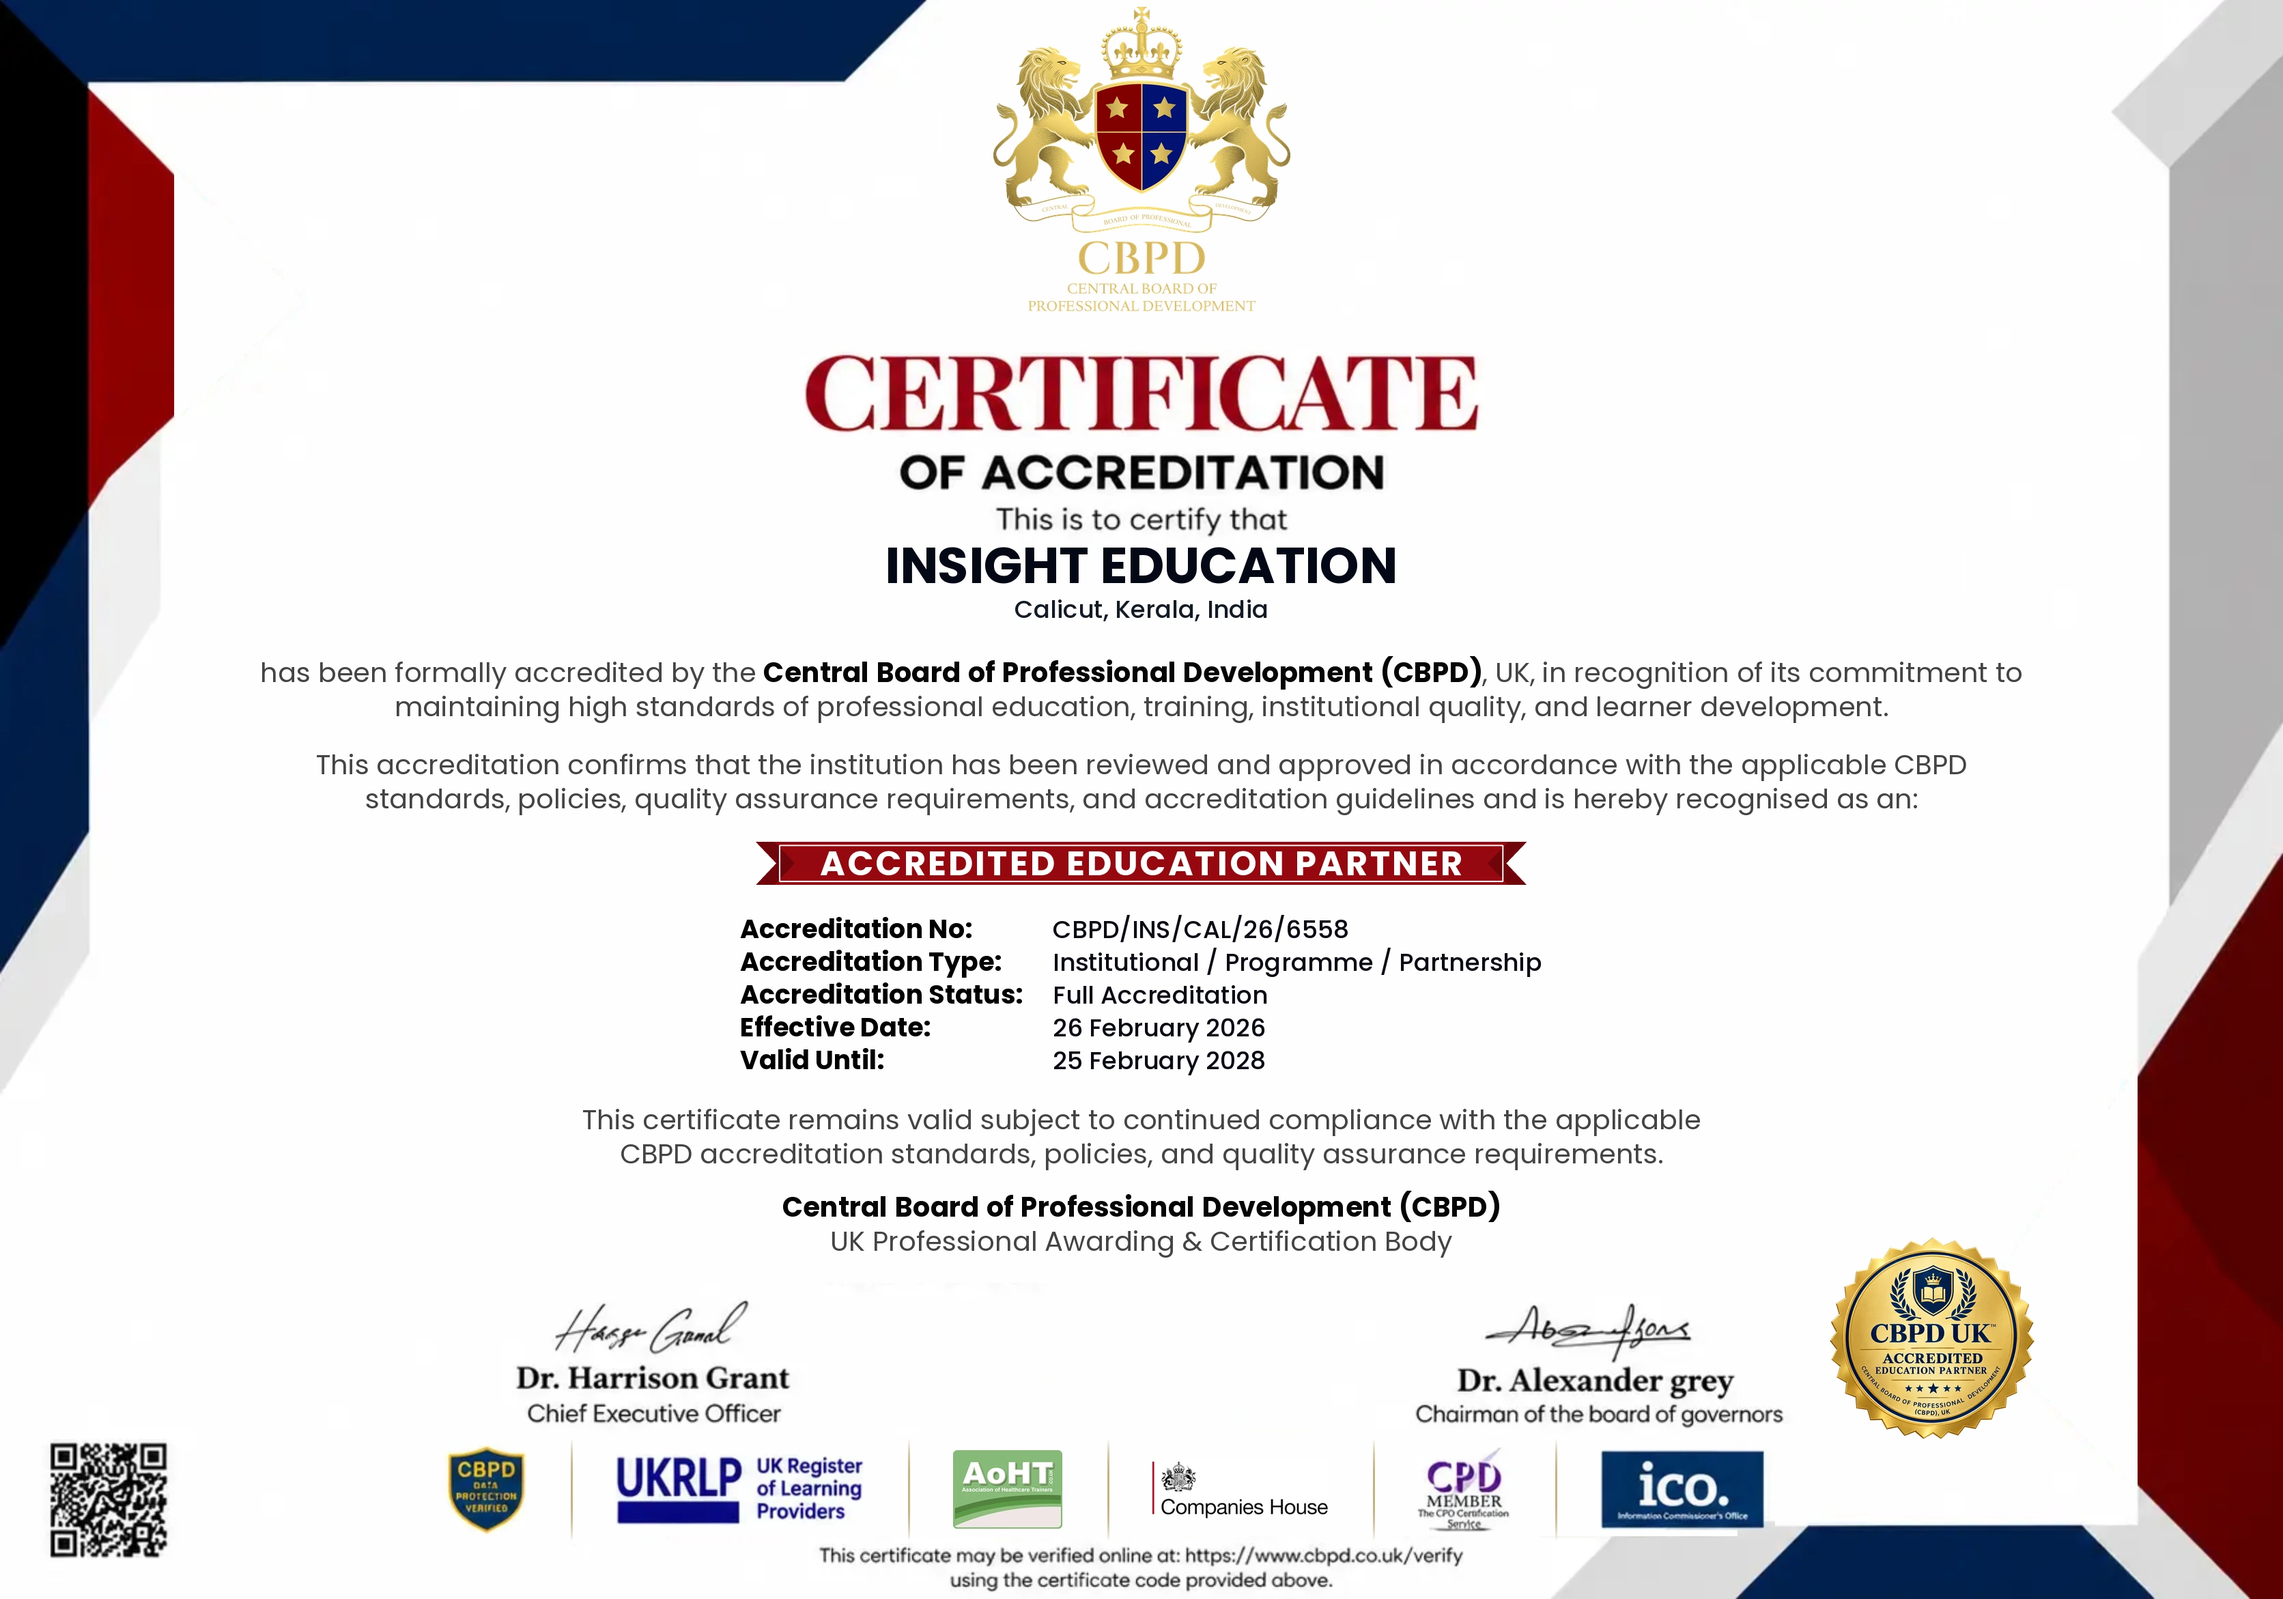
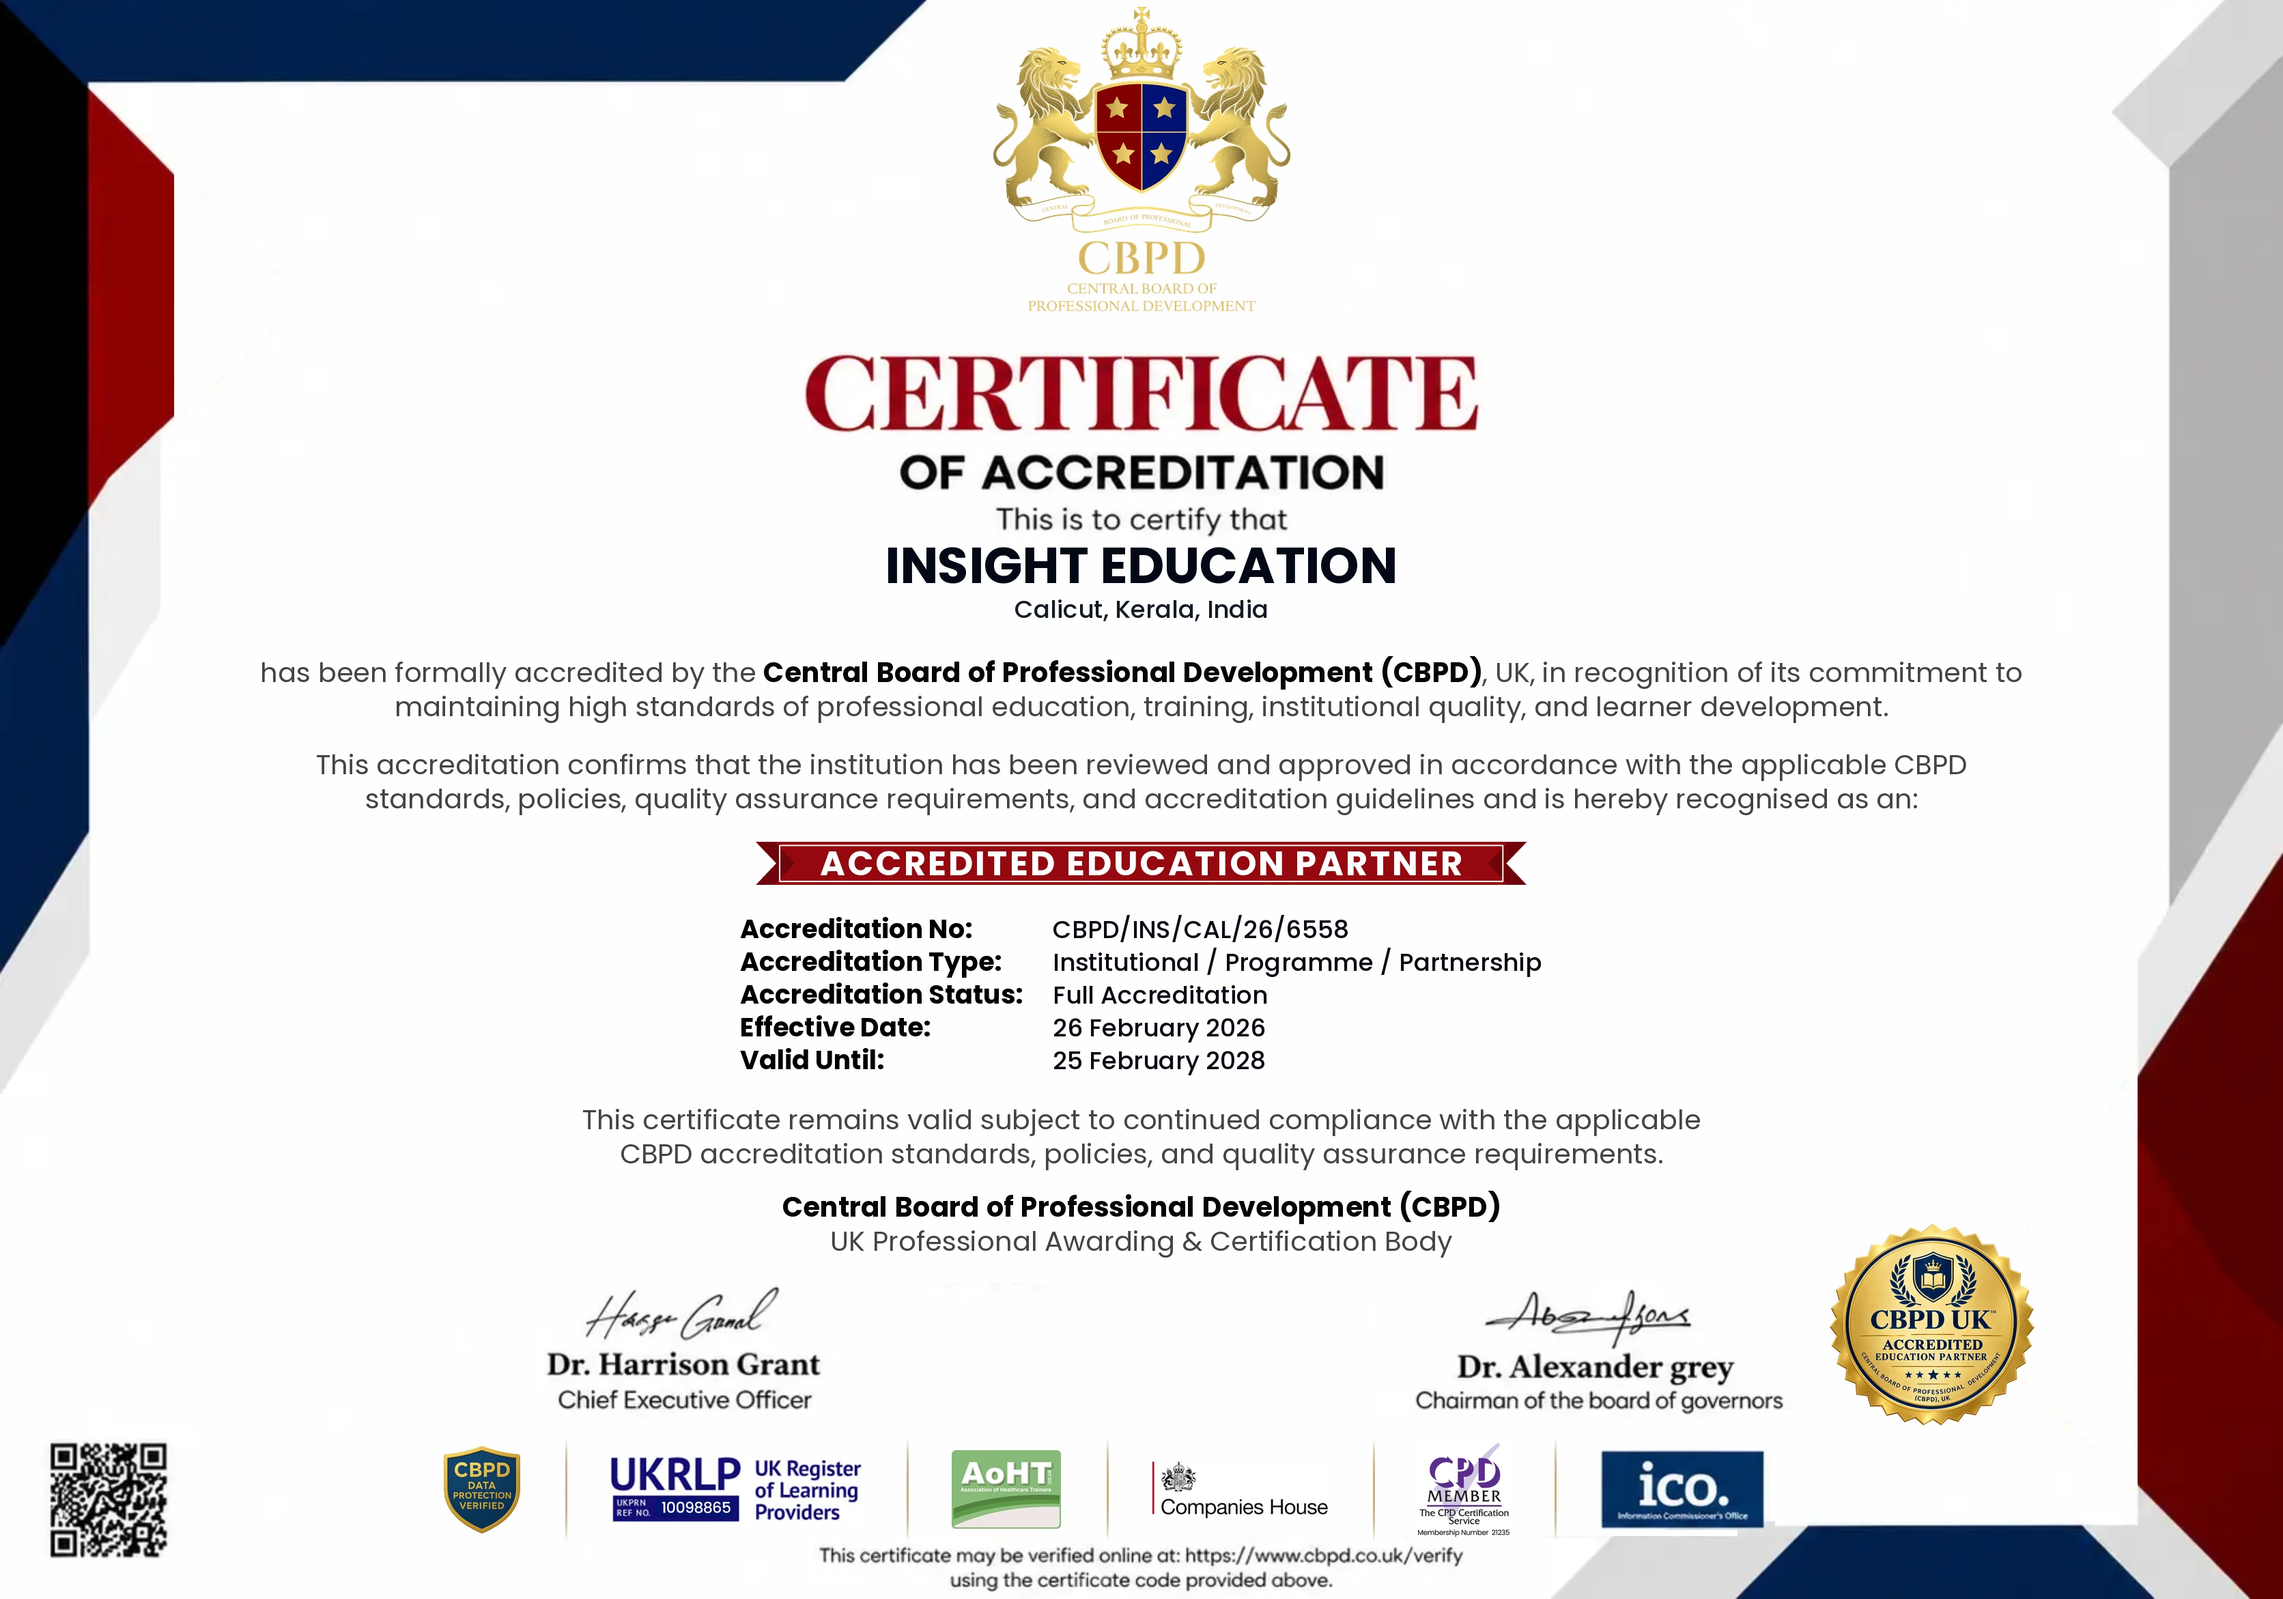
Update accreditation certificate layout: center institution and location, support 2-line names, and add dynamic QR code

Changed region(s): [[0.1866, 0.8104, 0.4665, 0.9663], [0.622, 0.8104, 0.7775, 0.9663], [0.7775, 0.7481, 0.9019, 0.9039]]

diff --git a/src/app/admin/certificates/generate/page.tsx b/src/app/admin/certificates/generate/page.tsx
@@ -14,6 +14,7 @@ import {
   Tabs,
   notification,
   Radio,
+  QRCode,
 } from "antd";
 import { EyeOutlined, DownloadOutlined } from "@ant-design/icons";
 import type { Dayjs } from "dayjs";
@@ -256,6 +257,13 @@ type AccreditationCanvasProps = {
   accreditationLevel: string;
 };
 
+const getInstitutionNameFontSize = (name: string) => {
+  const len = (name || "").trim().length;
+  if (len > 45) return "24px";
+  if (len > 28) return "28px";
+  return "34px";
+};
+
 const AccreditationCanvas = forwardRef<HTMLDivElement, AccreditationCanvasProps>(
   function AccreditationCanvas(
     {
@@ -269,6 +277,10 @@ const AccreditationCanvas = forwardRef<HTMLDivElement, AccreditationCanvasProps>
     },
     ref,
   ) {
+    const qrVerificationUrl = accreditationNo
+      ? `https://www.cbpd.co.uk/verifications?type=centre&centreCode=${encodeURIComponent(accreditationNo)}`
+      : "https://www.cbpd.co.uk/verifications";
+
     return (
       <div ref={ref} className="accreditation-canvas">
         <img
@@ -279,13 +291,28 @@ const AccreditationCanvas = forwardRef<HTMLDivElement, AccreditationCanvasProps>
           height={ACC_CANVAS_H}
           draggable={false}
         />
-        <div className="accreditation-field institution-name">{institutionName}</div>
-        <div className="accreditation-field location">{location}</div>
+        <div className="institution-block">
+          <div
+            className="institution-name"
+            style={{ fontSize: getInstitutionNameFontSize(institutionName) }}
+          >
+            {institutionName}
+          </div>
+          <div className="location">{location}</div>
+        </div>
         <div className="accreditation-field accreditation-no">{accreditationNo}</div>
         <div className="accreditation-field accreditation-level">{accreditationLevel}</div>
         <div className="accreditation-field accreditation-status">{accreditationStatus}</div>
         <div className="accreditation-field effective-date">{effectiveDateText}</div>
         <div className="accreditation-field valid-until">{validUntilText}</div>
+        <div className="accreditation-qr-code">
+          <QRCode
+            value={qrVerificationUrl}
+            size={80}
+            bordered={false}
+            type="canvas"
+          />
+        </div>
       </div>
     );
   },

diff --git a/src/styles/certificate-generator.css b/src/styles/certificate-generator.css
@@ -260,28 +260,61 @@
   line-height: 1.2;
 }
 
-.accreditation-canvas .institution-name {
-  top: 395px;
+.accreditation-canvas .institution-block {
+  position: absolute;
+  top: 436px;
   left: 50%;
-  transform: translateX(-50%);
+  transform: translate(-50%, -50%);
   width: 1100px;
-  font-size: 36px;
+  display: flex;
+  flex-direction: column;
+  align-items: center;
+  justify-content: center;
+  text-align: center;
+  margin: 0;
+  padding: 0;
+  gap: 6px;
+}
+
+.accreditation-canvas .institution-name {
+  width: 100%;
+  max-width: 1100px;
   font-weight: 700;
   text-align: center;
   text-transform: uppercase;
   letter-spacing: 0.02em;
   color: #0f172a;
+  word-wrap: break-word;
+  white-space: pre-line;
+  line-height: 1.15;
+  margin: 0;
+  padding: 0;
 }
 
 .accreditation-canvas .location {
-  top: 442px;
-  left: 50%;
-  transform: translateX(-50%);
-  width: 700px;
+  width: 100%;
+  max-width: 700px;
   text-align: center;
   font-size: 18px;
   font-weight: 600;
   color: #1f2937;
+  margin: 0;
+  padding: 0;
+  line-height: 1.2;
+}
+
+.accreditation-canvas .accreditation-qr-code {
+  position: absolute;
+  left: 37px;
+  top: 1056px;
+  width: 84px;
+  height: 84px;
+  background-color: #ffffff;
+  display: flex;
+  align-items: center;
+  justify-content: center;
+  padding: 2px;
+  border-radius: 2px;
 }
 
 .accreditation-canvas .accreditation-no,
